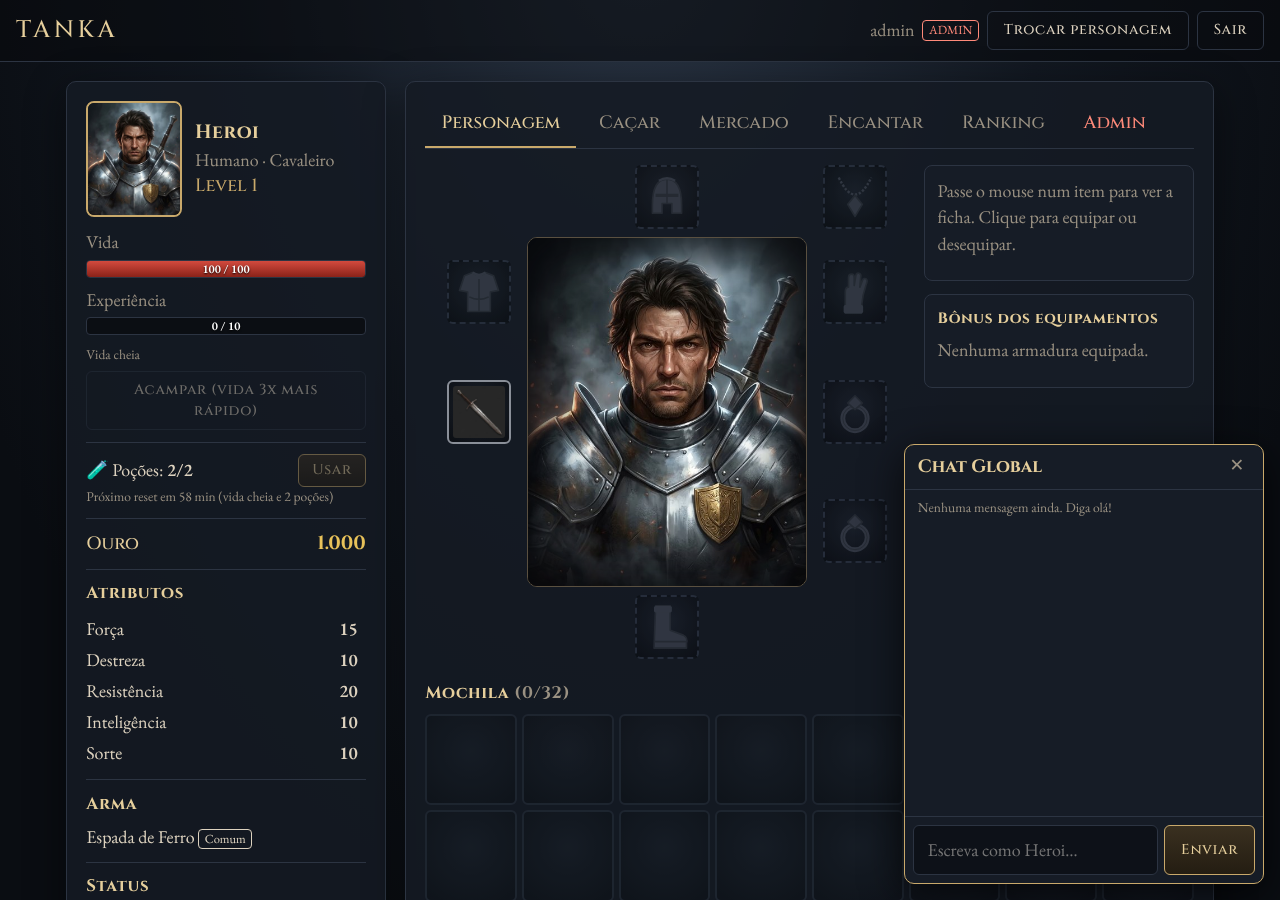
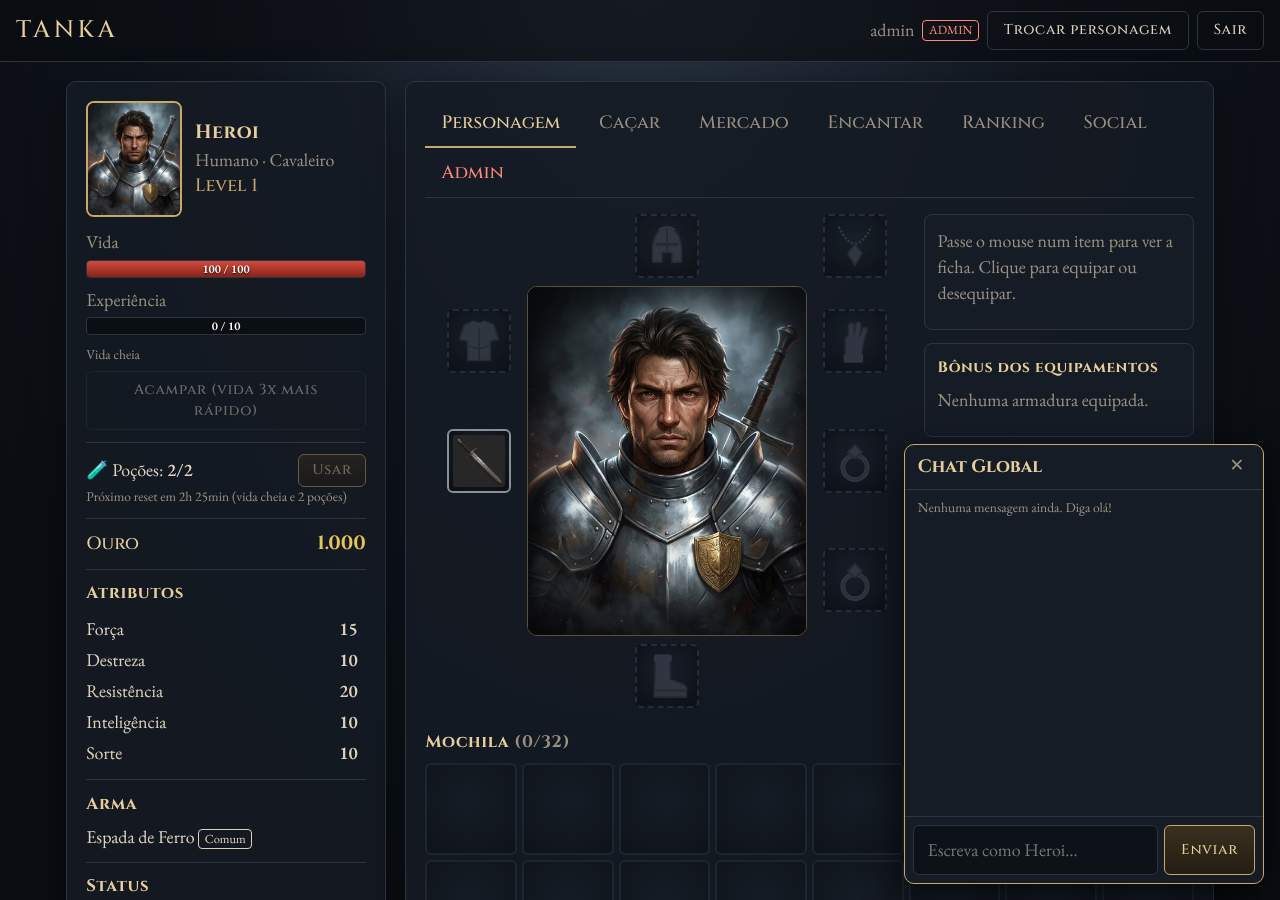
Social: amigos (pedir, aceitar, recusar, remover, online)
Claude-Session: https://claude.ai/code/session_01W1tJzqUatBvNJoFh2xMGhn

diff --git a/js/app.js b/js/app.js
@@ -234,8 +234,11 @@
     estado.itemFoco = null;
     estado.mercadoRaridade = 'comum';
     estado.resultado = null;
-    if (R.atualizarTempo(estado.personagem, C.agora())) salvar();
+    R.atualizarTempo(estado.personagem, C.agora());
+    salvar();   // também marca o personagem como online para os amigos
+    estado.social = null;
     telaJogo();
+    carregarSocial();
   }
 
   function tempoTexto(ms) {
@@ -558,6 +561,96 @@
       + ' Seus personagens aparecem destacados. Contas de administrador não entram.</p>' + corpo;
   }
 
+  // ---------------- Social: amigos ----------------
+  // A lista vem do servidor ao abrir a aba e a cada minuto (junto com o "estou online").
+  var ONLINE_MS = 3 * 60000;
+
+  function socialAtual() {
+    var s = estado.social;
+    return s && estado.personagem && s.id === estado.personagem.id ? s : null;
+  }
+  function seloPedidos() {
+    var s = socialAtual();
+    var n = s && s.lista ? s.lista.filter(function (x) { return x.situacao === 'recebido'; }).length : 0;
+    return n ? ' <span class="selo-pedidos">' + n + '</span>' : '';
+  }
+
+  function carregarSocial() {
+    var p = estado.personagem;
+    if (!p || estado.socialCarregando) return;
+    estado.socialCarregando = true;
+    C.amigos.listar(p.id).then(function (lista) {
+      return { id: p.id, lista: lista };
+    }, function (e) {
+      return { id: p.id, erro: 'Não foi possível carregar os amigos: ' + e.message };
+    }).then(function (r) {
+      estado.socialCarregando = false;
+      estado.social = r;
+      if (estado.personagem !== p || estado.batalha || estado.resultado || estado.chefeAviso) return;
+      if (estado.aba === 'social') telaJogo();
+      else {
+        var aba = document.querySelector('[data-aba="social"]');
+        if (aba) aba.innerHTML = 'Social' + seloPedidos();
+      }
+    });
+  }
+
+  function vistoTexto(visto) {
+    if (!visto) return '';
+    var ms = C.agora() - Date.parse(visto);
+    if (ms < ONLINE_MS) return '<span class="online">● Online</span>';
+    var min = Math.floor(ms / 60000);
+    var quando = min < 60 ? min + ' min' : min < 1440 ? Math.floor(min / 60) + ' h' : Math.floor(min / 1440) + ' dia(s)';
+    return '<span class="suave">Visto há ' + quando + '</span>';
+  }
+
+  function linhaAmigo(x, botoes) {
+    return '<div class="item amigo"><div class="amigo-info"><div><strong>' + esc(x.nome) + '</strong> ' + vistoTexto(x.visto_em) + '</div>'
+      + '<div class="suave">' + (D.racas[x.raca] ? D.racas[x.raca].nome : '') + ' · ' + (D.classes[x.classe] ? D.classes[x.classe].nome : '')
+      + ' · Level ' + x.nivel + ' · Poder ' + Number(x.poder || 0).toLocaleString('pt-BR') + '</div></div>'
+      + '<div class="item-acoes">' + botoes + '</div></div>';
+  }
+
+  function abaSocial() {
+    var s = socialAtual();
+    if (!s) carregarSocial();
+    var form = '<form class="form-amigo" data-form="amigo" novalidate>'
+      + '<label for="nome-amigo">Adicionar amigo</label><div class="linha-form">'
+      + '<input id="nome-amigo" name="nome" maxlength="16" placeholder="Nome do personagem" autocomplete="off" required>'
+      + '<button class="btn" type="submit">Enviar pedido</button></div><p class="erro"></p></form>';
+    if (!s) return form + '<p class="suave">Carregando…</p>';
+    if (s.erro) return form + '<p class="menos">' + esc(s.erro) + '</p>';
+    var por = function (sit) { return s.lista.filter(function (x) { return x.situacao === sit; }); };
+    var recebidos = por('recebido'), amigos = por('amigo'), enviados = por('enviado');
+    amigos.sort(function (a, b) { return Date.parse(b.visto_em || 0) - Date.parse(a.visto_em || 0); });
+    var online = amigos.filter(function (x) { return x.visto_em && C.agora() - Date.parse(x.visto_em) < ONLINE_MS; }).length;
+    function bt(acao, x, texto, classe) {
+      return '<button class="btn ' + (classe || '') + '" data-acao="' + acao + '" data-pedido="' + x.pedido + '">' + texto + '</button>';
+    }
+    var html = form;
+    if (recebidos.length) html += '<h3 class="subtitulo">Pedidos recebidos (' + recebidos.length + ')</h3><div class="itens">'
+      + recebidos.map(function (x) { return linhaAmigo(x, bt('amigo-aceitar', x, 'Aceitar') + bt('amigo-recusar', x, 'Recusar', 'secundario')); }).join('') + '</div>';
+    html += '<h3 class="subtitulo">Amigos (' + amigos.length + ')' + (online ? ' <span class="online pequeno">' + online + ' online</span>' : '') + '</h3>'
+      + (amigos.length ? '<div class="itens">' + amigos.map(function (x) {
+        return linhaAmigo(x, estado.removerAmigo === x.pedido
+          ? bt('amigo-remover', x, 'Confirmar', 'perigo') + '<button class="btn secundario" data-acao="amigo-manter">Cancelar</button>'
+          : bt('amigo-pedir-remover', x, 'Remover', 'secundario'));
+      }).join('') + '</div>' : '<p class="suave">Você ainda não tem amigos. Adicione pelo nome do personagem (dá para ver os nomes no chat e no ranking).</p>');
+    if (enviados.length) html += '<h3 class="subtitulo">Pedidos enviados (' + enviados.length + ')</h3><div class="itens">'
+      + enviados.map(function (x) { return linhaAmigo(x, '<span class="suave pequeno">Aguardando</span>' + bt('amigo-remover', x, 'Cancelar', 'secundario')); }).join('') + '</div>';
+    return html + '<div class="botoes"><button class="btn secundario" data-acao="social-atualizar">Atualizar</button></div>';
+  }
+
+  async function acaoAmigo(fn, msg) {
+    try {
+      await fn();
+      if (msg) avisar(msg);
+    } catch (e) { avisar(e.message); }
+    estado.removerAmigo = null;
+    estado.social = null;
+    carregarSocial();
+  }
+
   function carregarRanking(tipo) {
     if (estado.rankingCarregando === tipo) return;
     estado.rankingCarregando = tipo;
@@ -686,9 +779,10 @@
         + '<button data-acao="aba" data-aba="mercado" class="' + (estado.aba === 'mercado' ? 'ativa' : '') + '">Mercado</button>'
         + '<button data-acao="aba" data-aba="encantar" class="' + (estado.aba === 'encantar' ? 'ativa' : '') + '">Encantar</button>'
         + '<button data-acao="aba" data-aba="ranking" class="' + (estado.aba === 'ranking' ? 'ativa' : '') + '">Ranking</button>'
+        + '<button data-acao="aba" data-aba="social" class="' + (estado.aba === 'social' ? 'ativa' : '') + '">Social' + seloPedidos() + '</button>'
         + (ehAdmin() ? '<button data-acao="aba" data-aba="admin" class="aba-admin' + (estado.aba === 'admin' ? ' ativa' : '') + '">Admin</button>' : '')
         + '</nav>'
-        + ({ personagem: abaPersonagem, cacar: abaCacar, mercado: abaMercado, encantar: abaEncantar, ranking: abaRanking, admin: abaAdmin })[estado.aba]();
+        + ({ personagem: abaPersonagem, cacar: abaCacar, mercado: abaMercado, encantar: abaEncantar, ranking: abaRanking, social: abaSocial, admin: abaAdmin })[estado.aba]();
     }
     var trocar = estado.batalha ? '' : '<button class="btn secundario" data-acao="voltar-personagens">Trocar personagem</button>';
     app.innerHTML = topo(trocar) + '<div class="conteudo"><div class="jogo">' + fichaHtml()
@@ -821,6 +915,19 @@
   app.addEventListener('submit', async function (e) {
     e.preventDefault();
     var form = e.target;
+    if (form.dataset.form === 'amigo') {
+      var nome = form.nome.value.trim();
+      var erroAmigo = form.querySelector('.erro');
+      if (!nome || !estado.personagem) return;
+      if (nome.toLowerCase() === estado.personagem.nome.toLowerCase()) { erroAmigo.textContent = 'Esse é você.'; return; }
+      try {
+        var r = await C.amigos.pedir(estado.personagem.id, nome);
+        avisar(r === 'aceita' ? 'Agora você e ' + nome + ' são amigos!' : 'Pedido enviado para ' + nome + '.');
+        estado.social = null;
+        carregarSocial();
+      } catch (err) { erroAmigo.textContent = err.message; }
+      return;
+    }
     var dados = Object.fromEntries(new FormData(form));
     var botao = form.querySelector('button[type=submit]');
     botao.disabled = true;
@@ -908,6 +1015,27 @@
       case 'desequipar':
         if (R.desequipar(p, el.dataset.slot)) { salvar(); telaJogo(); }
         else avisar('Mochila cheia! Venda algo antes de desequipar.');
+        break;
+      case 'amigo-aceitar':
+        acaoAmigo(function () { return C.amigos.responder(p.id, Number(el.dataset.pedido), true); }, 'Pedido aceito!');
+        break;
+      case 'amigo-recusar':
+        acaoAmigo(function () { return C.amigos.responder(p.id, Number(el.dataset.pedido), false); });
+        break;
+      case 'amigo-pedir-remover':
+        estado.removerAmigo = Number(el.dataset.pedido);
+        telaJogo();
+        break;
+      case 'amigo-manter':
+        estado.removerAmigo = null;
+        telaJogo();
+        break;
+      case 'amigo-remover':
+        acaoAmigo(function () { return C.amigos.remover(p.id, Number(el.dataset.pedido)); });
+        break;
+      case 'social-atualizar':
+        estado.social = null;
+        telaJogo();
         break;
       case 'ranking-tipo':
         estado.rankingTipo = el.dataset.valor;
@@ -1112,6 +1240,13 @@
     nova.innerHTML = fichaHtml();
     aberta.replaceWith(nova.firstChild);
   }, 20000);
+
+  // A cada minuto: avisa o servidor que está jogando (online para os amigos) e procura pedidos novos.
+  setInterval(function () {
+    if (!estado.personagem || estado.batalha || !document.querySelector('.ficha') || document.hidden) return;
+    salvar();
+    carregarSocial();
+  }, 60000);
 
   // ---------------- Chat global ----------------
   // Fica fora do #app para não sumir quando a tela é redesenhada.

diff --git a/js/contas-local.js b/js/contas-local.js
@@ -146,7 +146,59 @@ Tanka.contas = (function () {
     return lista.slice(0, 100);
   }
 
+  // Amigos locais: entre personagens das contas deste navegador.
+  var CHAVE_AMIZADES = 'tanka.amizades';
+  function lerAmizades() { try { return JSON.parse(localStorage.getItem(CHAVE_AMIZADES)) || []; } catch (e) { return []; } }
+  function gravarAmizades(l) { try { localStorage.setItem(CHAVE_AMIZADES, JSON.stringify(l)); } catch (e) { /* sem armazenamento */ } }
+  function todosPersonagens() {
+    var contas = ler(), lista = [];
+    Object.keys(contas).forEach(function (k) {
+      contas[k].personagens.forEach(function (p) { lista.push({ conta: k, p: p }); });
+    });
+    return lista;
+  }
+  var amigos = {
+    listar: async function (meu) {
+      var todos = todosPersonagens();
+      return lerAmizades().filter(function (a) { return a.de === meu || a.para === meu; }).map(function (a) {
+        var outroId = a.de === meu ? a.para : a.de;
+        var o = (todos.find(function (x) { return x.p.id === outroId; }) || {}).p;
+        if (!o) return null;
+        return { pedido: a.id, situacao: a.status === 'aceita' ? 'amigo' : a.de === meu ? 'enviado' : 'recebido',
+          id: o.id, nome: o.nome, classe: o.classe, raca: o.raca, nivel: o.nivel, poder: o.poder || 0, visto_em: null };
+      }).filter(Boolean);
+    },
+    pedir: async function (meu, nome) {
+      var todos = todosPersonagens();
+      var eu = todos.find(function (x) { return x.p.id === meu; });
+      var alvo = todos.find(function (x) { return x.p.nome.toLowerCase() === nome.trim().toLowerCase(); });
+      if (!alvo) throw new Error('Nenhum personagem com esse nome.');
+      if (eu && alvo.conta === eu.conta) throw new Error('Esse personagem é seu.');
+      var l = lerAmizades();
+      var ex = l.find(function (a) { return (a.de === meu && a.para === alvo.p.id) || (a.de === alvo.p.id && a.para === meu); });
+      if (ex) {
+        if (ex.status === 'aceita') throw new Error('Vocês já são amigos.');
+        if (ex.de === meu) throw new Error('Pedido já enviado. Espere a resposta.');
+        ex.status = 'aceita'; gravarAmizades(l); return 'aceita';
+      }
+      l.push({ id: Date.now(), de: meu, para: alvo.p.id, status: 'pendente' });
+      gravarAmizades(l);
+      return 'enviado';
+    },
+    responder: async function (meu, pedido, aceitar) {
+      var l = lerAmizades();
+      var a = l.find(function (x) { return x.id === pedido && x.para === meu; });
+      if (!a) return;
+      if (aceitar) a.status = 'aceita'; else l.splice(l.indexOf(a), 1);
+      gravarAmizades(l);
+    },
+    remover: async function (meu, pedido) {
+      gravarAmizades(lerAmizades().filter(function (x) { return !(x.id === pedido && (x.de === meu || x.para === meu)); }));
+    },
+  };
+
   return {
+    amigos: amigos,
     ranking: ranking,
     chat: chat,
     iniciar: async function () { return contaAtual(); },

diff --git a/index.html b/index.html
@@ -8,17 +8,17 @@
   <link rel="preconnect" href="https://fonts.googleapis.com">
   <link rel="preconnect" href="https://fonts.gstatic.com" crossorigin>
   <link href="https://fonts.googleapis.com/css2?family=Cinzel:wght@500;700&family=EB+Garamond:wght@400;500;600&display=swap" rel="stylesheet">
-  <link rel="stylesheet" href="css/estilo.css?v=18">
+  <link rel="stylesheet" href="css/estilo.css?v=19">
 </head>
 <body>
   <main id="app" aria-live="polite"></main>
   <div id="aviso" role="status" hidden></div>
 
-  <script src="js/dados.js?v=18"></script>
-  <script src="js/regras.js?v=18"></script>
-  <script src="js/config.js?v=18"></script>
-  <script src="js/contas.js?v=18"></script>
-  <script src="js/retratos.js?v=18"></script>
-  <script src="js/app.js?v=18"></script>
+  <script src="js/dados.js?v=19"></script>
+  <script src="js/regras.js?v=19"></script>
+  <script src="js/config.js?v=19"></script>
+  <script src="js/contas.js?v=19"></script>
+  <script src="js/retratos.js?v=19"></script>
+  <script src="js/app.js?v=19"></script>
 </body>
 </html>

diff --git a/css/estilo.css b/css/estilo.css
@@ -482,3 +482,12 @@ button.slot:hover, button.celula:hover, .focado { outline: 2px solid var(--ouro-
 .ranking tr.meu td { background: rgba(201, 169, 107, .12); }
 @media (max-width: 600px) { .ranking { font-size: .85rem; } .ranking td, .ranking th { padding: .35rem .25rem; } }
 .btn.admin-menos { border-color: var(--ruim); color: #f0b4ad; background: transparent; }
+
+/* Social: amigos */
+.selo-pedidos { display: inline-block; min-width: 1.3em; padding: 0 .3em; border-radius: 999px; background: var(--ruim); color: #fff; font-size: .75rem; text-align: center; font-family: var(--corpo, inherit); }
+.form-amigo { display: grid; gap: .35rem; margin-bottom: .5rem; }
+.form-amigo .linha-form { display: flex; gap: .5rem; flex-wrap: wrap; }
+.form-amigo input { flex: 1; min-width: 0; margin: 0; }
+.form-amigo .erro { min-height: 1.2em; margin: 0; }
+.amigo .amigo-info { min-width: 0; }
+.online { color: var(--bom); font-size: .85rem; }

diff --git a/js/contas.js b/js/contas.js
@@ -213,7 +213,16 @@ Tanka.contas = (function () {
     return rpc('ranking', { tipo: tipo });
   }
 
+  // ---------- Amigos (sempre do ponto de vista do personagem "meu") ----------
+  var amigos = {
+    listar: async function (meu) { await logado(); return rpc('amigos_listar', { meu: meu }); },
+    pedir: async function (meu, nome) { await logado(); return rpc('amigo_pedir', { meu: meu, nome_amigo: nome }); },
+    responder: async function (meu, pedido, aceitar) { await logado(); await rpc('amigo_responder', { meu: meu, pedido: pedido, aceitar: aceitar }); },
+    remover: async function (meu, pedido) { await logado(); await rpc('amigo_remover', { meu: meu, pedido: pedido }); },
+  };
+
   return {
+    amigos: amigos,
     ranking: ranking,
     chat: chat,
     iniciar: iniciar,

diff --git a/README.md b/README.md
@@ -87,6 +87,7 @@ A vida com o tempo e o reset diário usam o relógio do servidor. Ainda falta a 
   Cada ponto de Sorte soma +1% na chance (máximo 95%). Cada nível soma dano: comum +1, rara +2, épica +3, lendária +5. A venda vale +20% por nível. O nome brilha em azul (+4 a +6), roxo (+7 a +9) e dourado (+10).
 - **Conta de administrador**: contas com `admin = true` na tabela `contas` (na versão local, as listadas em `ADMINS` em `js/dados.js`) veem a aba **Admin**, com botões para dar ouro, subir de level, pegar todas as armas da classe (+0, +7 ou +10), um conjunto completo de qualquer raridade, ganhar pergaminhos, curar, recarregar as poções e simular o reset diário. Também tira: ouro (−1.000, −10.000, zerar), level (−1, −5, voltar ao 1; zera a exp e devolve os pontos), exp (±% do level), pontos de atributo (resetar), pergaminhos, vida (50%, 10%, zerar), poções e itens da mochila (com confirmação). É para testes; quando houver servidor, quem decide quem é admin deve ser o servidor.
 - **Ranking** (aba Ranking): top 100 por **Level** (empate: exp) ou por **Poder**. O Poder também aparece na ficha: é uma nota de força = ataque (dano médio × crítico esperado × precisão × velocidade ÷ 10, vezes 10) + metade da resistência (vida × (1 + defesas ÷ 20) × (1 + evasão)). Fórmula em `R.poder` (`js/regras.js`). Contas de administrador não entram.
+- **Social** (aba Social): adicionar amigo pelo nome do personagem, aceitar/recusar pedidos (a aba mostra quantos chegaram), cancelar pedidos enviados e remover amigos (com confirmação). A lista mostra raça, classe, level, poder e se o amigo está **online** (jogou nos últimos 3 minutos; o jogo avisa o servidor a cada minuto) ou há quanto tempo foi visto. Se os dois pedirem um ao outro, a amizade vira na hora. Até 50 amigos e pedidos por personagem.
 - **Chat Global**: botão 💬 no canto da tela do jogo (com contador de mensagens novas). Mostra nome, classe e level do personagem e as últimas 100 mensagens; atualiza a cada 4 s com a janela aberta. Até 200 caracteres e 1 mensagem a cada 3 s (conferido no servidor, que também preenche classe e level a partir do personagem salvo). Mensagens com mais de 7 dias são apagadas. O admin vê 🗑 (apagar) e 🔇 (silenciar por X horas, "sempre" ou 0 para liberar) em cada mensagem.
 - **Retratos**: arte pintada quando existe; se o arquivo não existir, aparece um desenho SVG no lugar.
 
